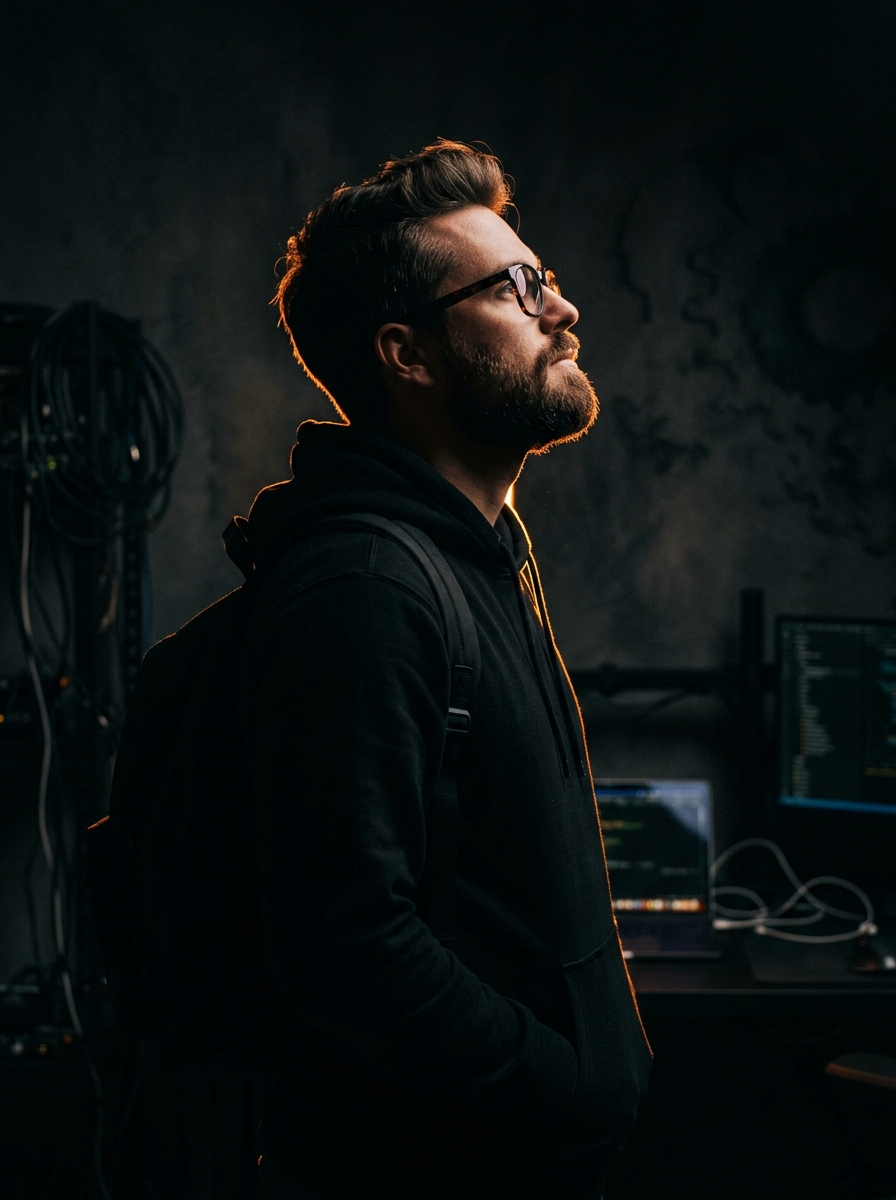
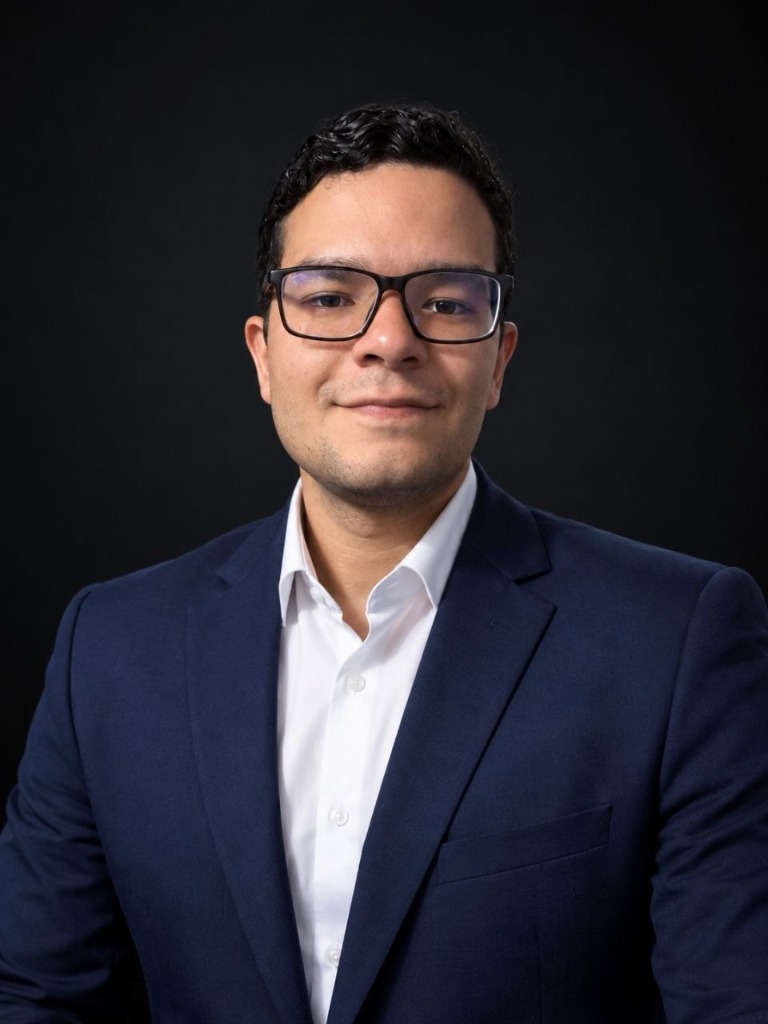
Actualizar foto de perfil de Alejandro y eliminar anteriores

diff --git a/src/data/portfolioData.ts b/src/data/portfolioData.ts
@@ -22,7 +22,7 @@ export const PERSONAL_INFO = {
     'Ingeniero de software enfocado en la convergencia entre rendimiento crítico, código tipado estrictamente y experiencias de usuario fluidas. Mi enfoque combina pragmatismo arquitectónico con una estética minimalista "developer-first".',
   location: 'Remoto / Global',
   experienceYears: '+5 años de experiencia',
-  avatarImage: '/hero-portrait.jpg',
+  avatarImage: '/alejandro-alvarez.jpg',
   email: 'joseale260403@gmail.com',
   githubUrl: 'https://github.com/alejoprograming26',
   githubHandle: 'github.com/alejoprograming26',
